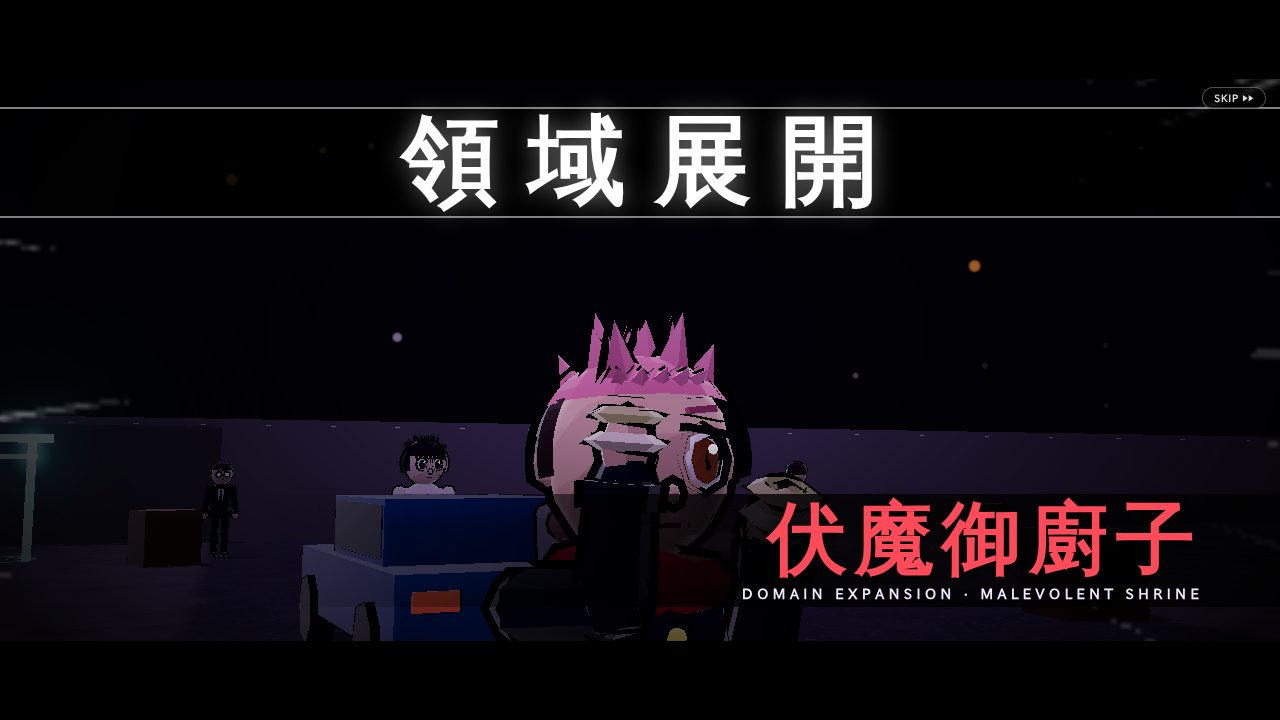
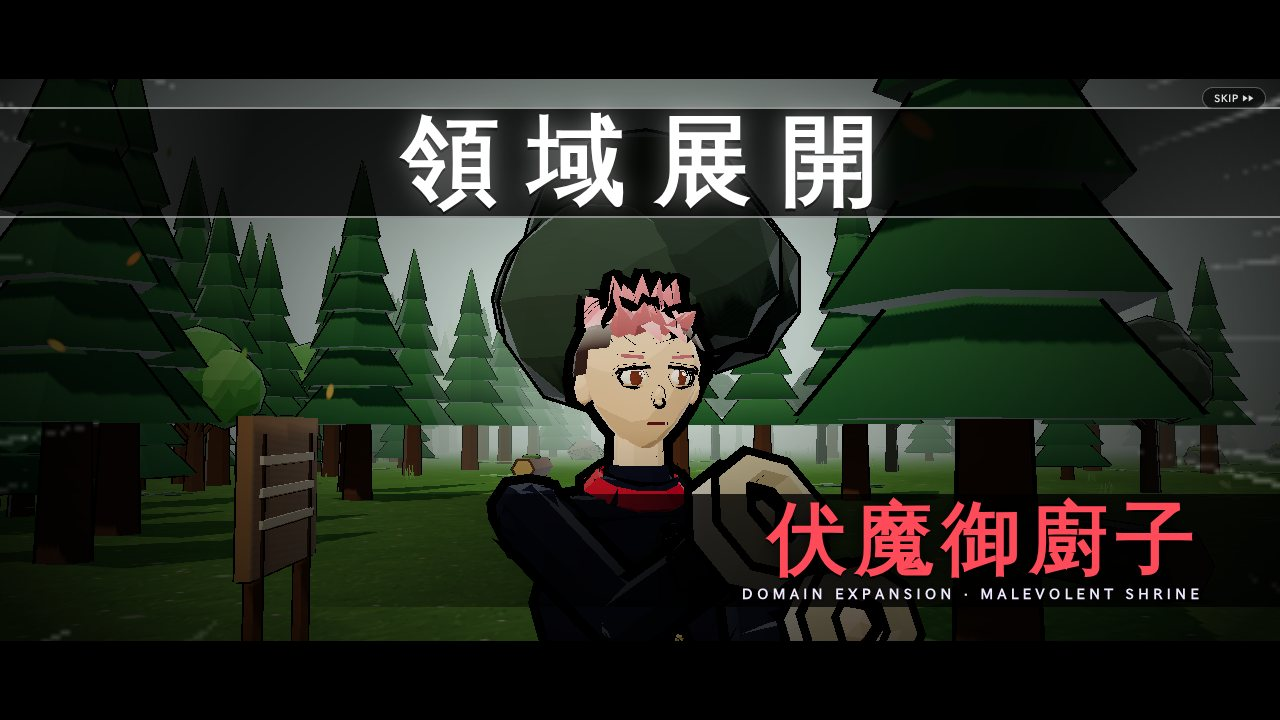
README: 2.7.9 screenshots of the new character models
A cast picture in the courtyard, and new conversation, sorcerer select,
quest ring, Domain Expansion and combat pictures with the rebuilt models.

Claude-Session: https://claude.ai/code/session_01RNDSBy5GbRiHbSC8KqQifq

diff --git a/README.md b/README.md
@@ -62,6 +62,8 @@ game's own animations and stay on the phone.
 
 ## Screenshots
 
+<p align="center"><img src="docs/screenshots/cast.jpg" width="860" alt="The cast in the courtyard of Jujutsu High"><br><sub><b>2.7.9: a new look for every character.</b> Nobara, Megumi, Yuji, Gojo, Maki, Yuta, Inumaki and Panda with realistic proportions, long coats with buttons and hoods, and layered hair</sub></p>
+
 <table>
   <tr>
     <td width="50%"><img src="docs/screenshots/quest-ring.jpg" alt="A quest giver's ring and the tracker's location line"><br><sub><b>Where to go</b>: quest givers stand in a glowing ring, and under the compass the tracker says where the objective is</sub></td>
@@ -84,8 +86,8 @@ game's own animations and stay on the phone.
     <td><img src="docs/screenshots/update.jpg" alt="Update notice"><br><sub><b>Update notice</b>: when a newer version is out, the title screen says so</sub></td>
   </tr>
   <tr>
-    <td width="50%"><img src="docs/screenshots/vn-dialogue.jpg" alt="Visual-novel dialogue"><br><sub><b>Conversations like a visual novel</b>: both speakers in large art, each with their own voice</sub></td>
-    <td width="50%"><img src="docs/screenshots/domain-cutin.jpg" alt="Domain Expansion cut-in"><br><sub><b>Domain Expansion cut-in</b>: 領域展開, then the domain's name</sub></td>
+    <td width="50%"><img src="docs/screenshots/vn-dialogue.jpg" alt="Visual-novel dialogue"><br><sub><b>Conversations like a visual novel</b>: both speakers in large art drawn from their 3D models, each with their own voice</sub></td>
+    <td width="50%"><img src="docs/screenshots/domain-cutin.jpg" alt="Domain Expansion cut-in"><br><sub><b>Domain Expansion cut-in</b>: a close-up, 領域展開, then the domain's name</sub></td>
   </tr>
   <tr>
     <td><img src="docs/screenshots/shrine-meter.jpg" alt="Inside Malevolent Shrine"><br><sub><b>Inside Malevolent Shrine</b>: slashes never stop, and the meter counts down in 5% steps</sub></td>
@@ -105,7 +107,7 @@ game's own animations and stay on the phone.
   </tr>
   <tr>
     <td><img src="docs/screenshots/combat-megumi.jpg" alt="Megumi in combat"><br><sub><b>Megumi</b> fights alongside his shikigami</sub></td>
-    <td><img src="docs/screenshots/combat-yuji.jpg" alt="Yuji in combat"><br><sub><b>Yuji</b> brawls through the Eishu detention yard</sub></td>
+    <td><img src="docs/screenshots/combat-yuji.jpg" alt="Yuji in combat"><br><sub><b>Yuji</b> spin-kicks into a pack of curses in the Tokyo Outskirts</sub></td>
   </tr>
   <tr>
     <td><img src="docs/screenshots/kyoto.jpg" alt="Kyoto forest"><br><sub><b>Kyoto Goodwill Event</b>: the forest where Hanami hides</sub></td>
